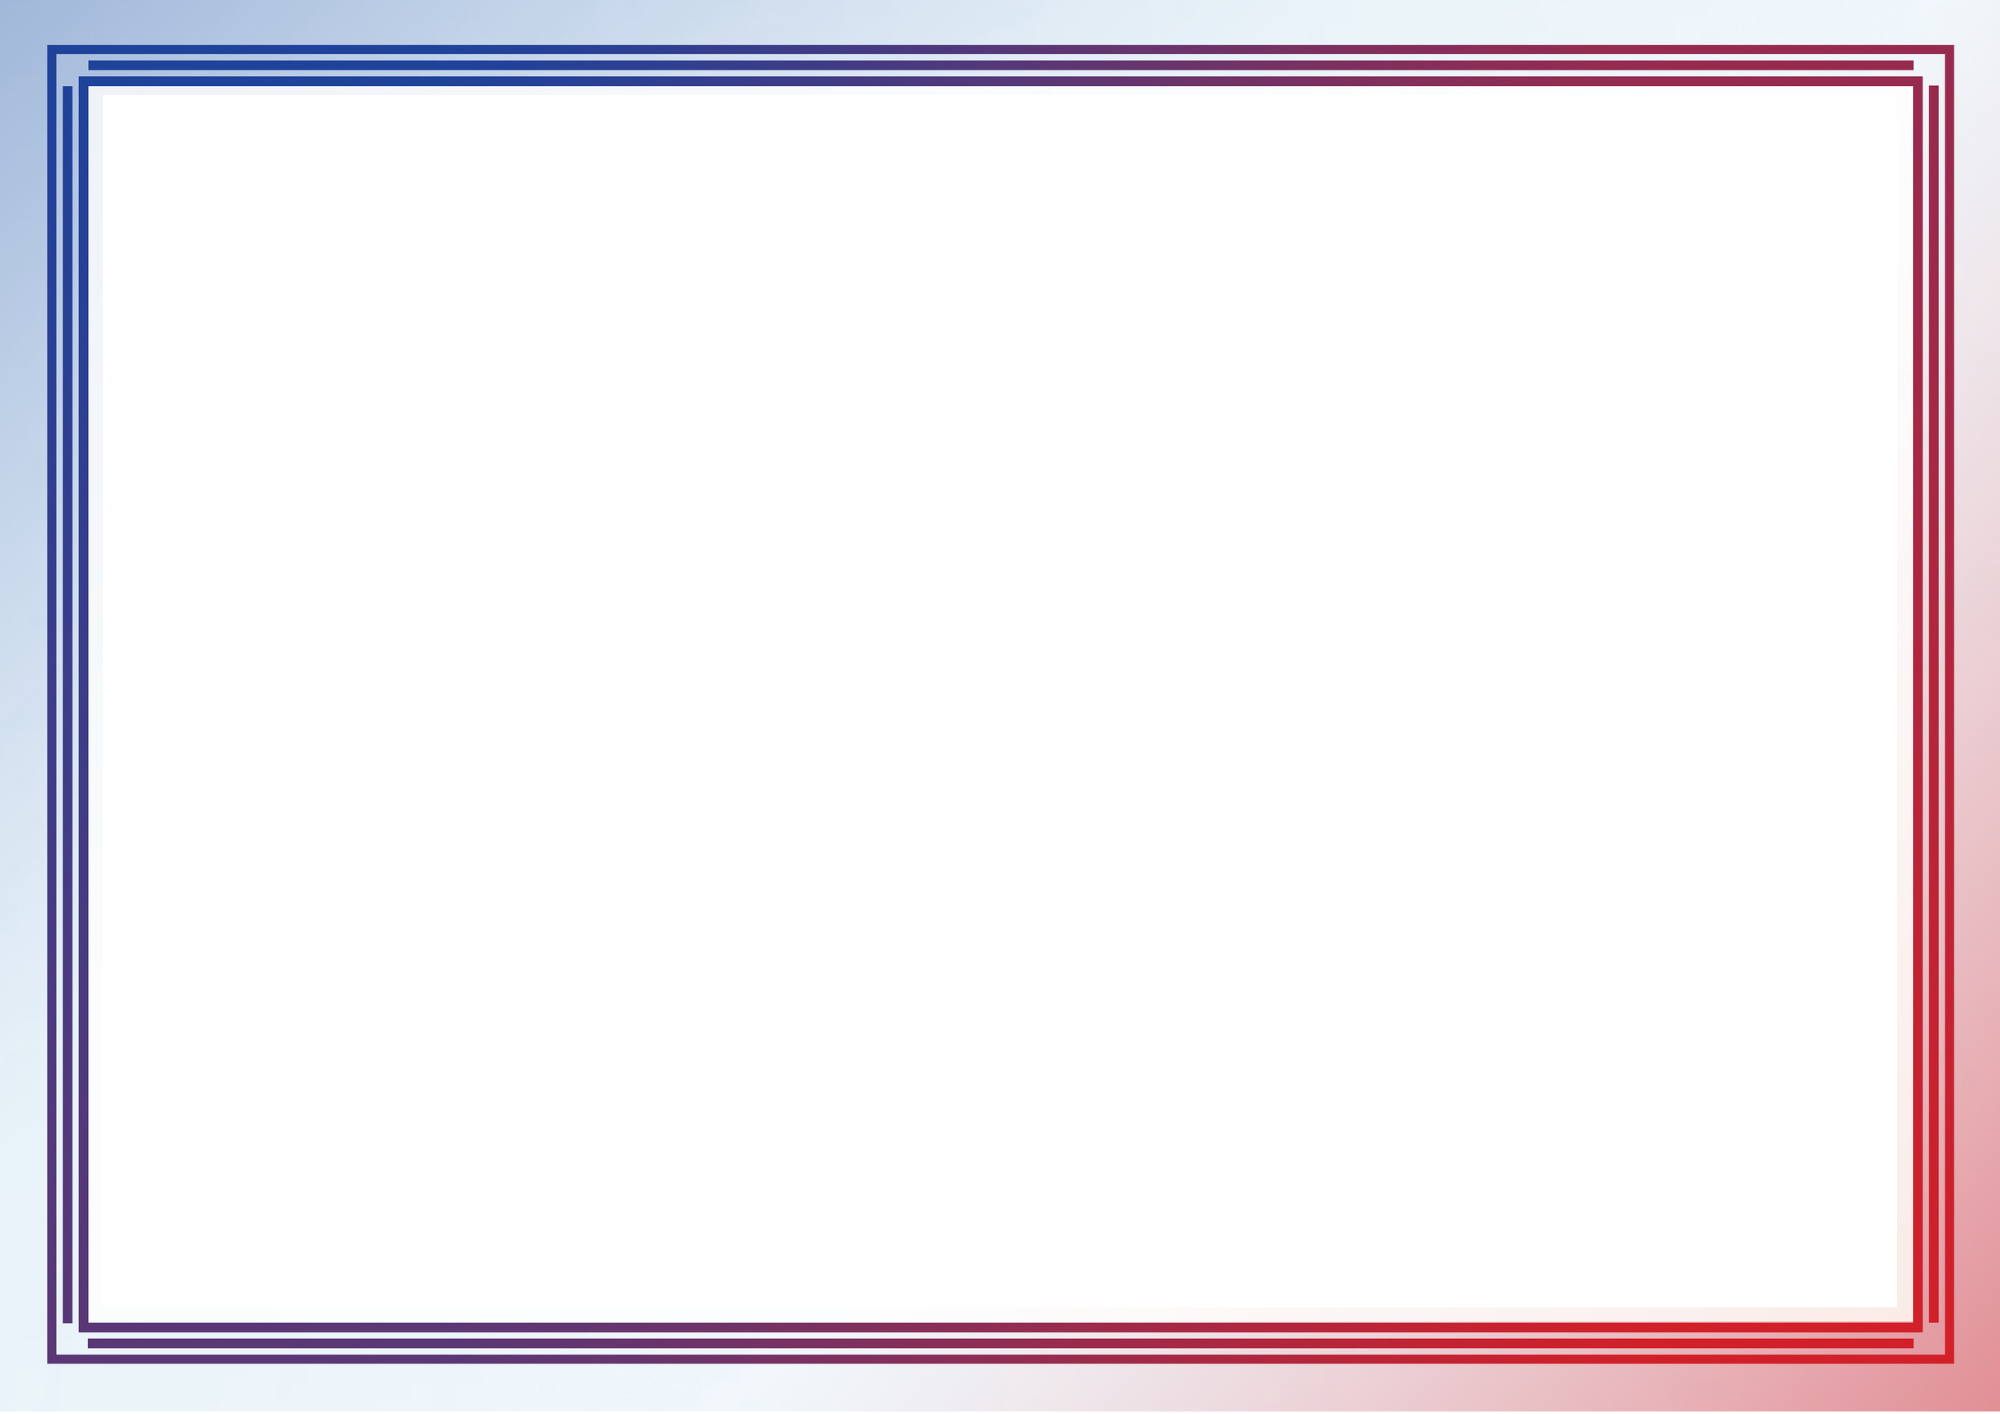
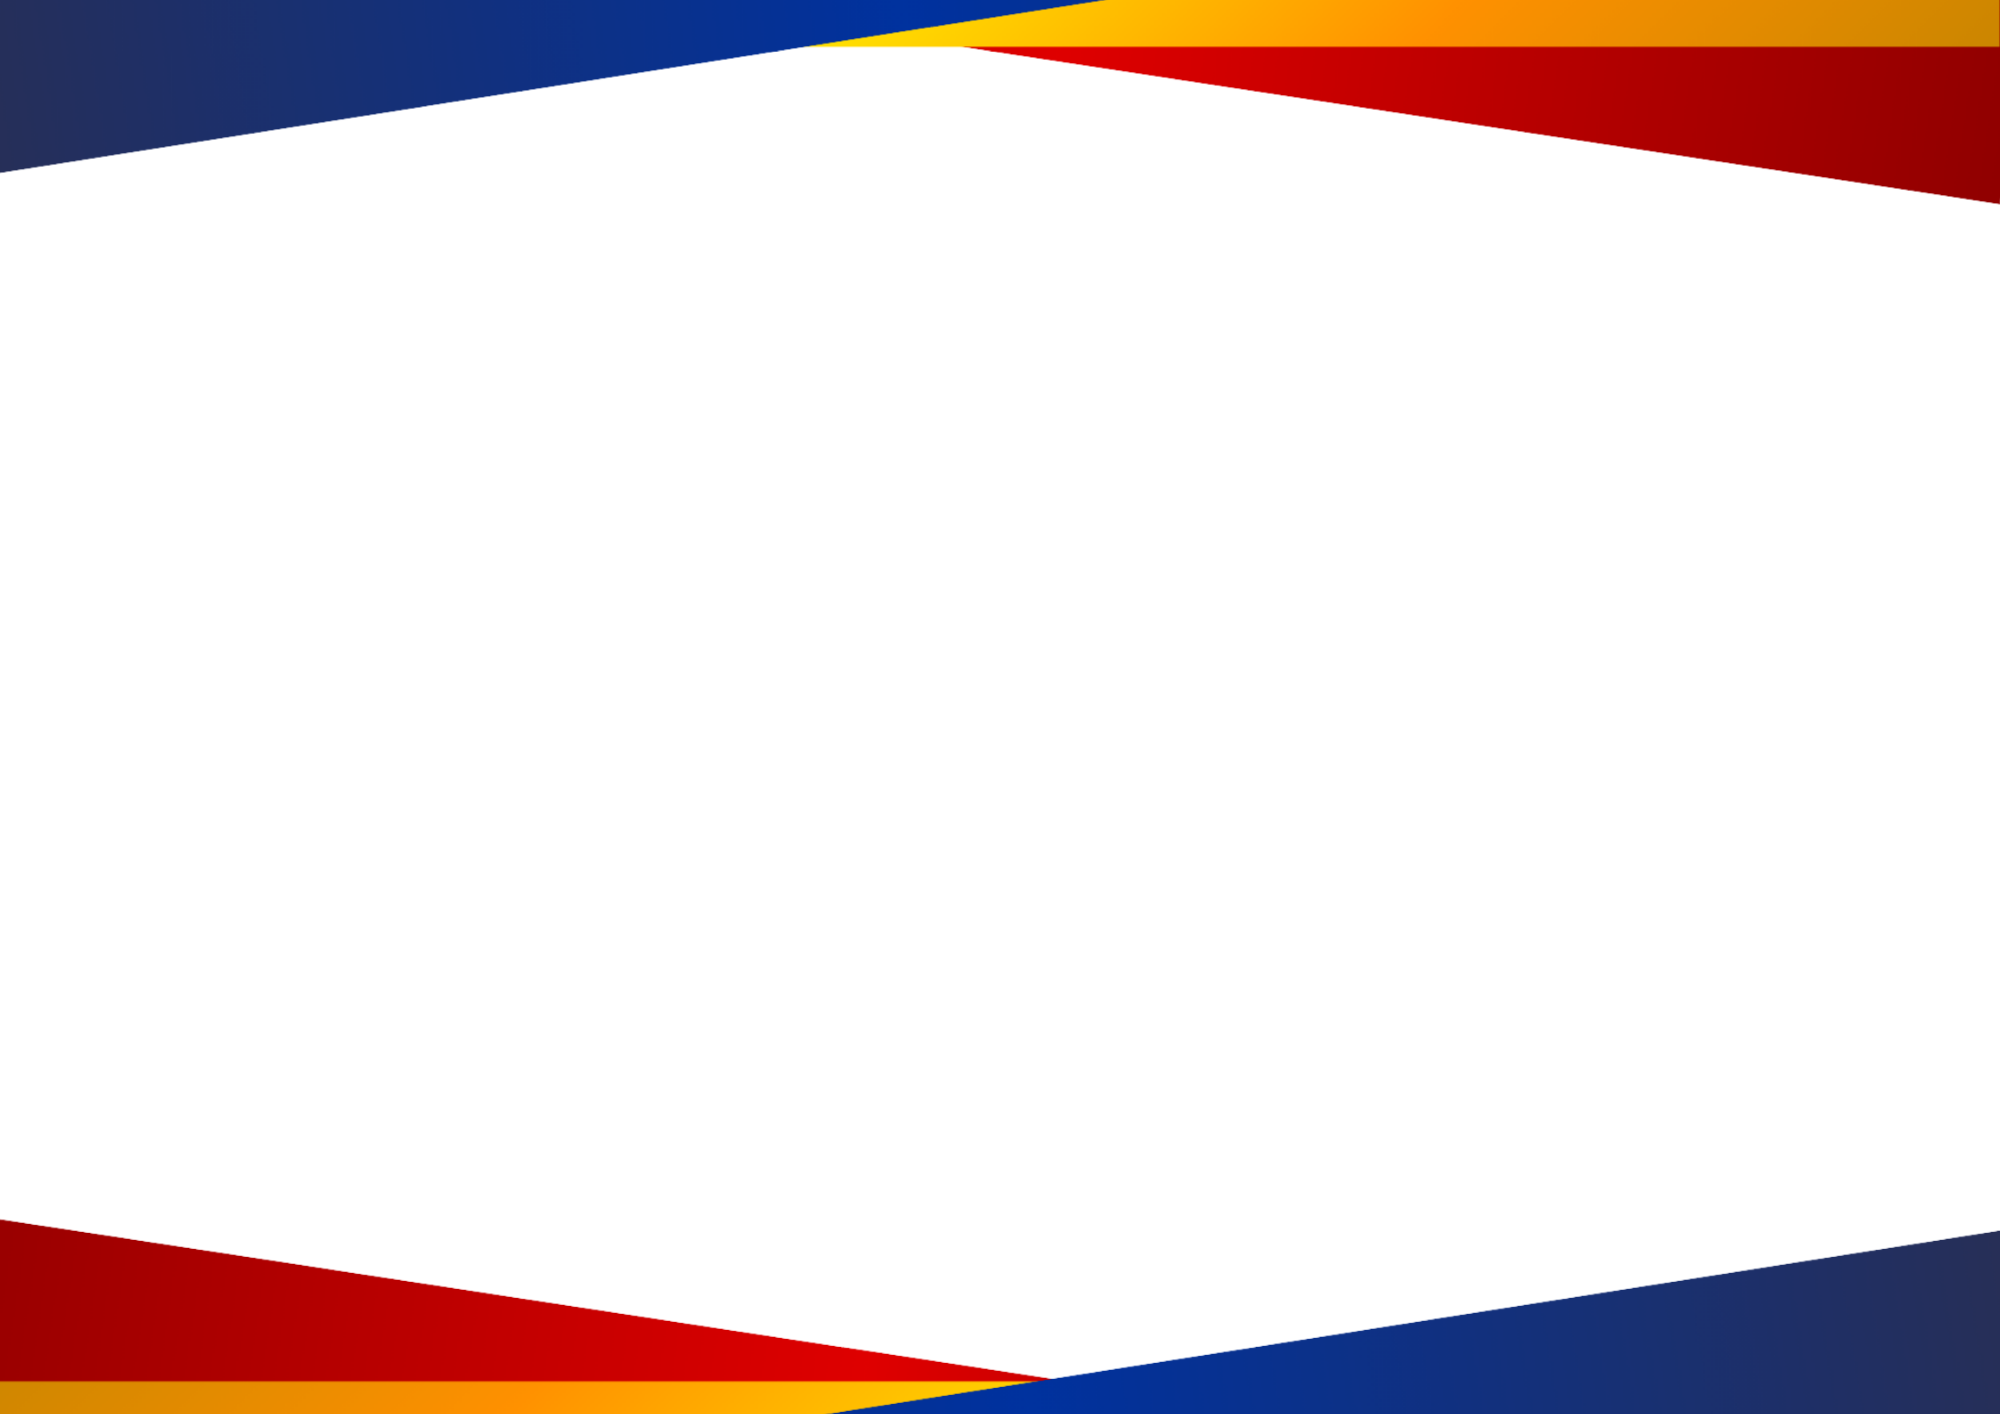
update certificate

Changed region(s): [[0.0, 0.0, 1.0, 1.0]]

diff --git a/resources/js/pages/event-kit-materials.tsx b/resources/js/pages/event-kit-materials.tsx
@@ -154,11 +154,23 @@ function formatGivenDate(startsAt?: string | null) {
     if (!startsAt) return '—';
     const start = new Date(startsAt);
     if (Number.isNaN(start.getTime())) return '—';
-    return new Intl.DateTimeFormat('en-PH', {
+    const day = start.getDate();
+    const suffix =
+        day % 100 >= 11 && day % 100 <= 13
+            ? 'th'
+            : day % 10 === 1
+              ? 'st'
+              : day % 10 === 2
+                ? 'nd'
+                : day % 10 === 3
+                  ? 'rd'
+                  : 'th';
+    const month = new Intl.DateTimeFormat('en-PH', {
         month: 'long',
-        day: 'numeric',
-        year: 'numeric',
     }).format(start);
+    const year = start.getFullYear();
+
+    return `${day}${suffix} Day of ${month} ${year}`;
 }
 
 export default function EventKitMaterials() {
@@ -199,8 +211,7 @@ export default function EventKitMaterials() {
                 eventDate,
                 givenDate: givenDateLabel,
                 venue,
-                signatoryName:
-                    programme.signatory_name ?? '',
+                signatoryName: programme.signatory_name ?? '',
                 signatoryTitle: programme.signatory_title ?? '',
                 signatorySignature: signatorySignatureUrl,
             },
@@ -216,7 +227,6 @@ export default function EventKitMaterials() {
             documentTitle: 'Certificate',
         });
     };
-
 
     return (
         <>
@@ -398,7 +408,7 @@ export default function EventKitMaterials() {
                                         'w-fit self-start rounded-xl px-2.5 py-1',
                                         'border-emerald-200 bg-emerald-50 text-emerald-700',
                                         !hasAttendance &&
-                                        'border-rose-200 bg-rose-50 text-rose-600',
+                                            'border-rose-200 bg-rose-50 text-rose-600',
                                     )}
                                 >
                                     {hasAttendance
@@ -535,8 +545,8 @@ export default function EventKitMaterials() {
                                         <div className="flex min-w-0 items-center gap-2">
                                             <Medal className="h-4 w-4 shrink-0" />
                                             <span className="min-w-0 font-semibold break-words">
-                                                Download certificates (appearance
-                                                & participation)
+                                                Download certificates
+                                                (appearance & participation)
                                             </span>
                                         </div>
 

diff --git a/resources/js/lib/certificates.ts b/resources/js/lib/certificates.ts
@@ -76,8 +76,14 @@ function renderCertificate({
     participantName: string;
     type: 'appearance' | 'participation';
 }) {
-    const typeTitle = type === 'appearance' ? 'CERTIFICATE OF APPEARANCE' : 'CERTIFICATE OF PARTICIPATION';
-    const lead = type === 'appearance' ? 'This is to certify that' : 'This certificate is hereby given to';
+    const typeTitle =
+        type === 'appearance'
+            ? 'CERTIFICATE OF APPEARANCE'
+            : 'CERTIFICATE OF PARTICIPATION';
+    const lead =
+        type === 'appearance'
+            ? 'This is to certify that'
+            : 'This certificate is hereby given to';
     const body =
         type === 'appearance'
             ? `has appeared during the conduct of <span class="value">${data.eventName}</span> on <span class="value">${data.eventDate}</span> at <span class="value">${data.venue}</span>.`
@@ -97,7 +103,7 @@ function renderCertificate({
             <div class="lead">${lead}</div>
             <div class="recipient">${participantName}</div>
             <div class="text">${body}</div>
-            <div class="given">Given this ${data.givenDate} at ${data.venue}.</div>
+            <div class="given">Given this ${data.givenDate} at the ${data.venue}.</div>
             <div class="signatory">
                 ${data.signatorySignature ? `<img class="signatory-signature" src="${data.signatorySignature}" alt="Signature" />` : ''}
                 <div class="sign-name">${data.signatoryName}</div>
@@ -108,12 +114,8 @@ function renderCertificate({
 }
 
 function toUpperName(name: string) {
-    return (name ?? '')
-        .replace(/\s+/g, ' ')
-        .trim()
-        .toLocaleUpperCase('en-PH');
+    return (name ?? '').replace(/\s+/g, ' ').trim().toLocaleUpperCase('en-PH');
 }
-
 
 export function buildCertificatePrintBody({
     data,

diff --git a/resources/js/pages/event-management-participants.tsx b/resources/js/pages/event-management-participants.tsx
@@ -78,11 +78,23 @@ function formatGivenDate(starts_at?: string | null) {
     if (!starts_at) return '—';
     const start = new Date(starts_at);
     if (Number.isNaN(start.getTime())) return '—';
-    return new Intl.DateTimeFormat('en-PH', {
+    const day = start.getDate();
+    const suffix =
+        day % 100 >= 11 && day % 100 <= 13
+            ? 'th'
+            : day % 10 === 1
+              ? 'st'
+              : day % 10 === 2
+                ? 'nd'
+                : day % 10 === 3
+                  ? 'rd'
+                  : 'th';
+    const month = new Intl.DateTimeFormat('en-PH', {
         month: 'long',
-        day: 'numeric',
-        year: 'numeric',
     }).format(start);
+    const year = start.getFullYear();
+
+    return `${day}${suffix} Day of ${month} ${year}`;
 }
 
 function formatVenueLabel(programme: ProgrammeRow) {

diff --git a/app/Http/Controllers/ProgrammeController.php b/app/Http/Controllers/ProgrammeController.php
@@ -686,7 +686,7 @@ class ProgrammeController extends Controller
 
     private function formatCertificateDate($date): string
     {
-        return $date ? $date->format('F j, Y') : '-';
+        return $date ? $date->format('jS').' Day of '.$date->format('F Y') : '-';
     }
 
     private function certificateSignaturePath(?string $signatureUrl): ?string
@@ -748,7 +748,7 @@ class ProgrammeController extends Controller
                     ['text' => $data['eventDate'], 'bold' => true],
                     ['text' => ' at '.$data['venue'].'.', 'bold' => false],
                 ],
-                'Given this '.$data['givenDate'].' at '.$data['venue'].'.',
+                'Given this '.$data['givenDate'].' at the '.$data['venue'].'.',
                 $data
             );
 
@@ -770,7 +770,7 @@ class ProgrammeController extends Controller
                     ['text' => $data['eventDate'], 'bold' => true],
                     ['text' => ' at '.$data['venue'].'.', 'bold' => false],
                 ],
-                'Given this '.$data['givenDate'].' at '.$data['venue'].'.',
+                'Given this '.$data['givenDate'].' at the '.$data['venue'].'.',
                 $data
             );
         }
